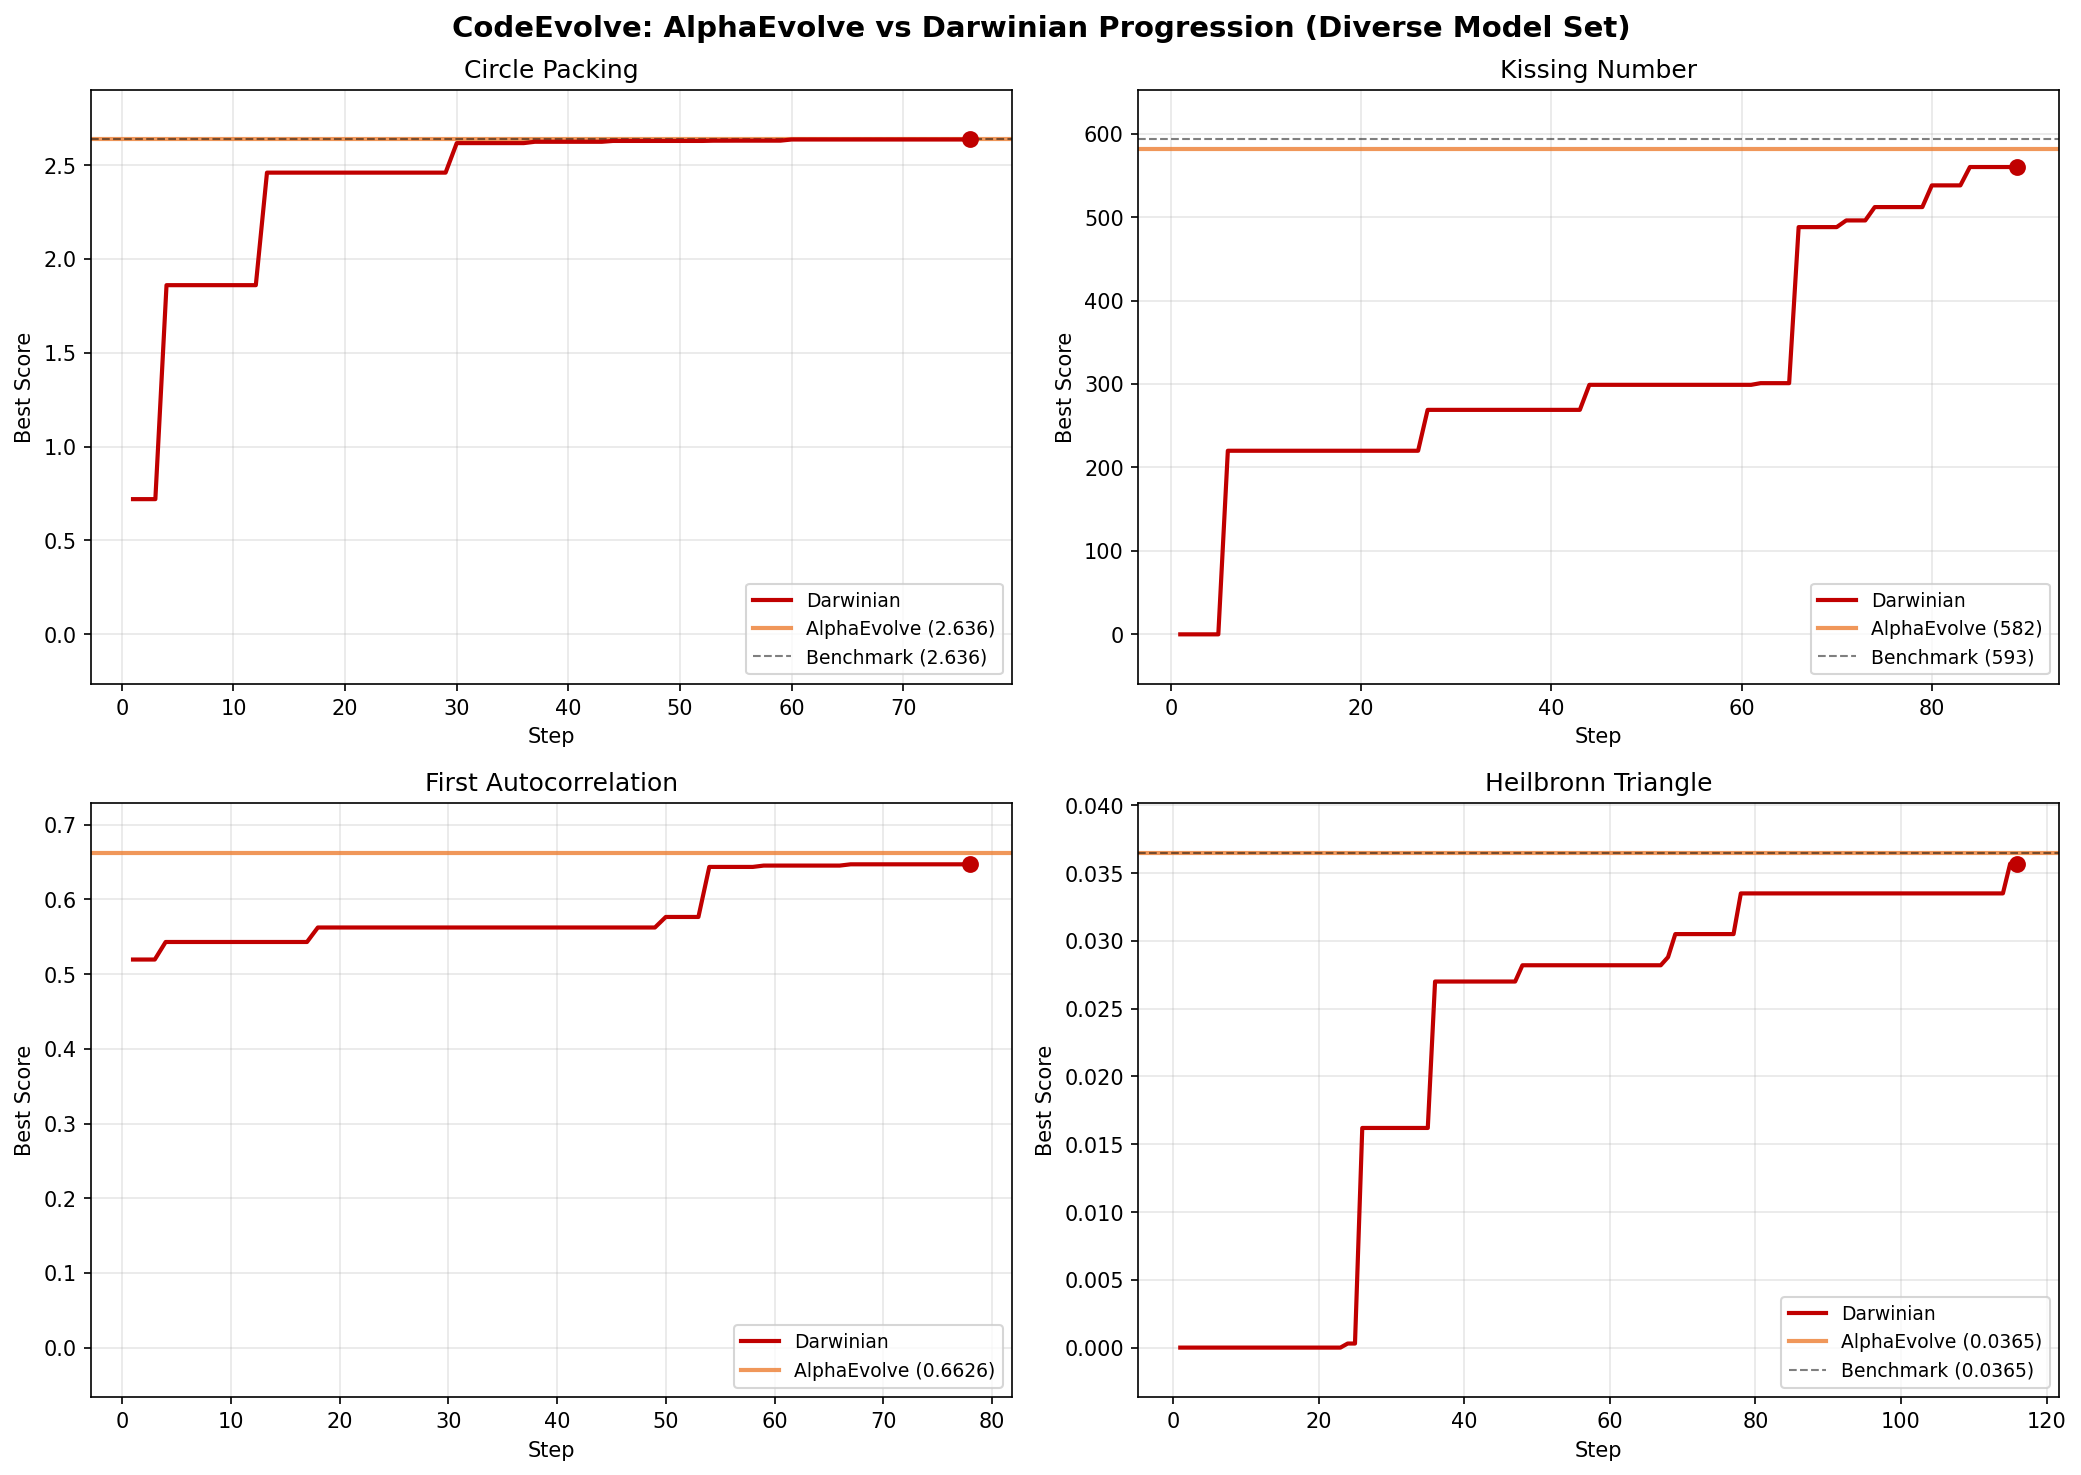
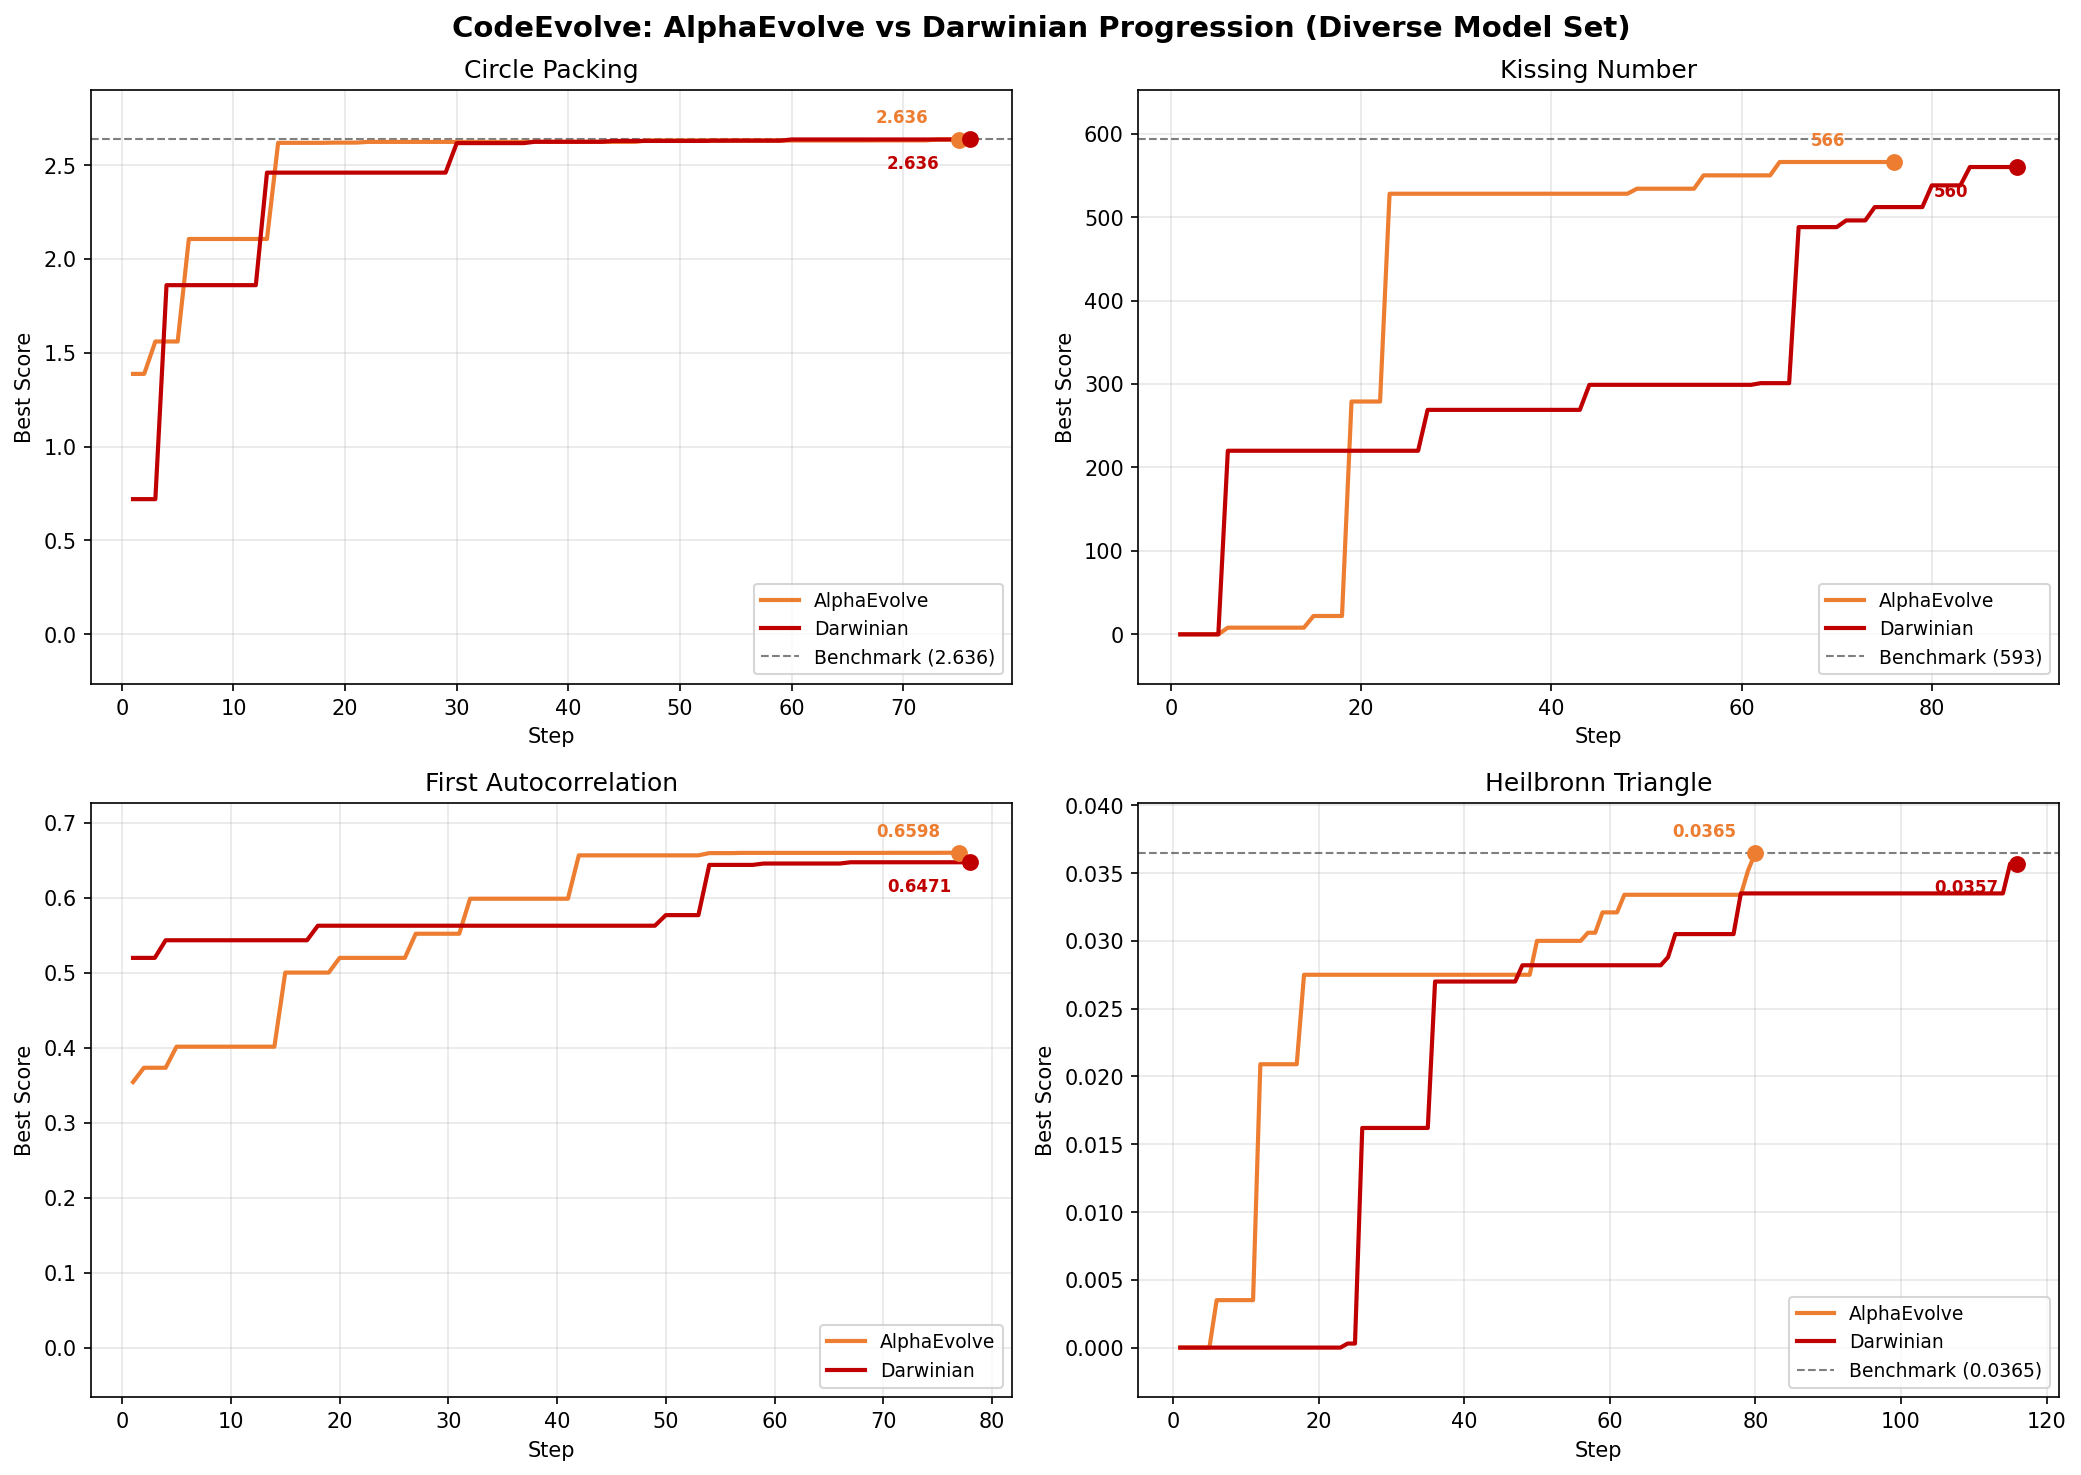
Plot step-by-step progression for both alphaevolve and darwinian
Previously alphaevolve was shown as a flat horizontal line (final score
only). Now loads scores.csv from both runs to show full evolution curves.

diff --git a/benchmarks/codeevolve/plot_results.py b/benchmarks/codeevolve/plot_results.py
@@ -140,23 +140,12 @@ def plot_strategy_comparison():
 
 def plot_progression():
     """Line plots: step-by-step score progression, alphaevolve vs darwinian."""
+    alpha_scores = load_scores("diverse_model_set_full_run")
     darw_scores = load_scores("diverse_model_set_darwinian")
-    alpha_results = load_results("diverse_model_set_full_run")
-    darw_results = load_results("diverse_model_set_darwinian")
 
-    # AlphaEvolve final scores
-    alpha_final: dict[str, float] = {}
-    for r in alpha_results:
-        alpha_final[r["task"]] = r["best_score"]
-
-    # Darwinian final scores (from results.json — may differ from last csv step)
-    darw_final: dict[str, float] = {}
-    for r in darw_results:
-        darw_final[r["task"]] = r["best_score"]
-
-    # Benchmarks
+    # Benchmarks from results.json
     benchmarks: dict[str, float] = {}
-    for r in alpha_results + darw_results:
+    for r in load_results("diverse_model_set_full_run") + load_results("diverse_model_set_darwinian"):
         bench = r.get("benchmark")
         if bench is not None and not isinstance(bench, str):
             benchmarks[r["task"]] = bench
@@ -166,21 +155,32 @@ def plot_progression():
 
     for idx, task in enumerate(TASK_ORDER):
         ax = axes[idx // 2][idx % 2]
+        ymin_vals = [0.0]
+        ymax_vals = [0.0]
+
+        # AlphaEvolve step-by-step
+        if task in alpha_scores:
+            steps = np.array(alpha_scores[task]["steps"])
+            scores = np.array(alpha_scores[task]["scores"])
+            ax.plot(steps, scores, color=STRATEGY_COLORS["alphaevolve"], linewidth=2, label="AlphaEvolve", zorder=3)
+            ax.scatter(steps[-1], scores[-1], color=STRATEGY_COLORS["alphaevolve"], s=50, zorder=4)
+            ax.annotate(f"{scores[-1]:.4g}", (steps[-1], scores[-1]),
+                        textcoords="offset points", xytext=(-40, 8),
+                        fontsize=8, fontweight="bold", color=STRATEGY_COLORS["alphaevolve"])
+            ymin_vals.append(scores.min())
+            ymax_vals.append(scores.max())
 
         # Darwinian step-by-step
-        has_data = task in darw_scores
-        if has_data:
+        if task in darw_scores:
             steps = np.array(darw_scores[task]["steps"])
             scores = np.array(darw_scores[task]["scores"])
             ax.plot(steps, scores, color=STRATEGY_COLORS["darwinian"], linewidth=2, label="Darwinian", zorder=3)
             ax.scatter(steps[-1], scores[-1], color=STRATEGY_COLORS["darwinian"], s=50, zorder=4)
-
-        # AlphaEvolve as horizontal line (only final score known)
-        if task in alpha_final:
-            ax.axhline(
-                alpha_final[task], color=STRATEGY_COLORS["alphaevolve"],
-                linestyle="-", linewidth=2, alpha=0.8, label=f"AlphaEvolve ({alpha_final[task]:.4g})",
-            )
+            ax.annotate(f"{scores[-1]:.4g}", (steps[-1], scores[-1]),
+                        textcoords="offset points", xytext=(-40, -14),
+                        fontsize=8, fontweight="bold", color=STRATEGY_COLORS["darwinian"])
+            ymin_vals.append(scores.min())
+            ymax_vals.append(scores.max())
 
         # Benchmark line
         if task in benchmarks:
@@ -188,6 +188,7 @@ def plot_progression():
                 benchmarks[task], color="black",
                 linestyle="--", linewidth=1, alpha=0.5, label=f"Benchmark ({benchmarks[task]:.4g})",
             )
+            ymax_vals.append(benchmarks[task])
 
         ax.set_title(TASK_LABELS[task], fontsize=12)
         ax.set_xlabel("Step")
@@ -195,15 +196,9 @@ def plot_progression():
         ax.legend(fontsize=9, loc="lower right")
         ax.grid(True, alpha=0.3)
 
-        # Set y-axis with some padding
-        ymin = min(0, scores.min() if has_data else 0)
-        ymax_vals = [scores.max() if has_data else 0]
-        if task in alpha_final:
-            ymax_vals.append(alpha_final[task])
-        if task in benchmarks:
-            ymax_vals.append(benchmarks[task])
+        ymin = min(ymin_vals)
         ymax = max(ymax_vals)
-        margin = (ymax - ymin) * 0.1
+        margin = (ymax - ymin) * 0.1 if ymax > ymin else 0.1
         ax.set_ylim(ymin - margin, ymax + margin)
 
     plt.tight_layout()
